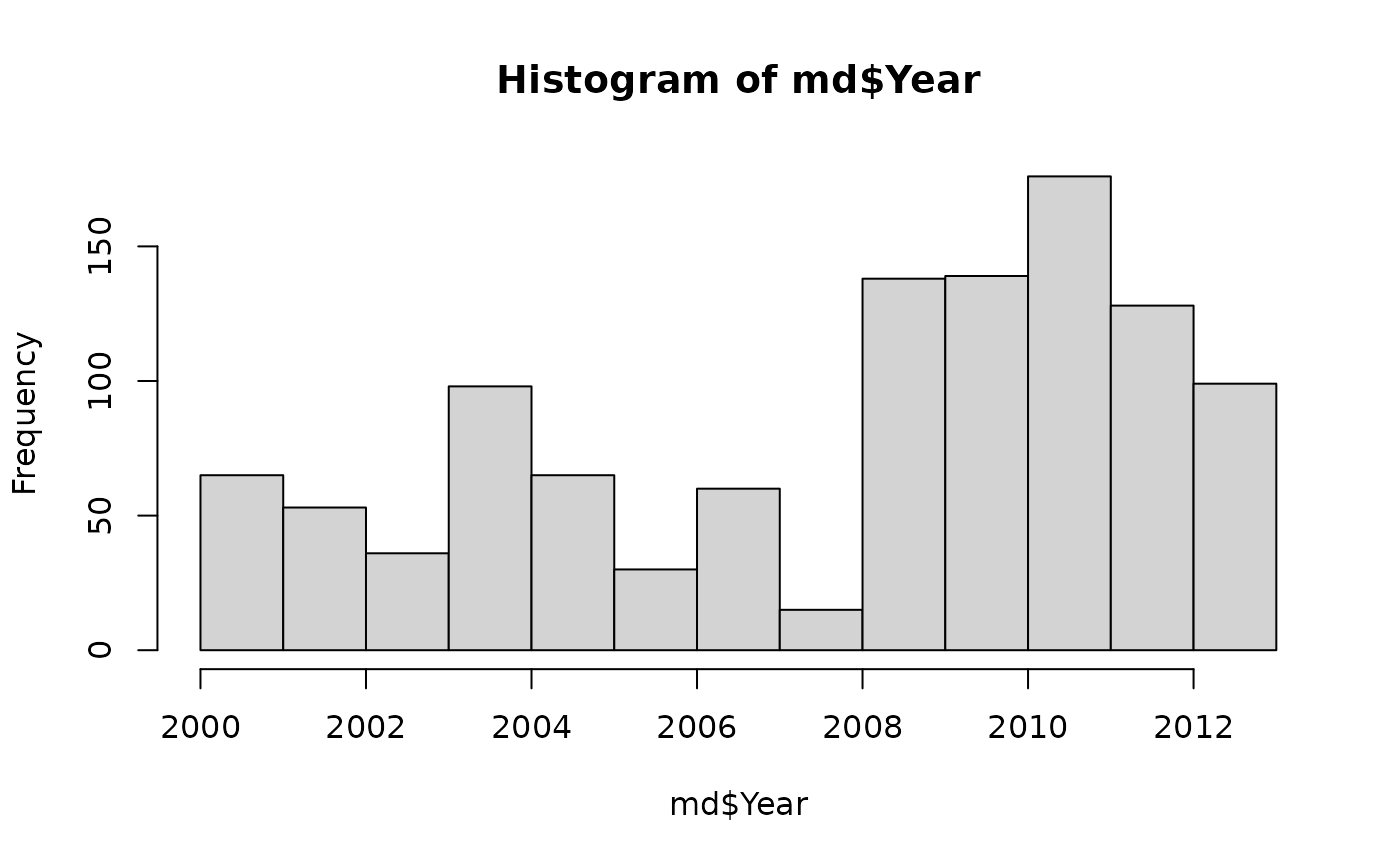
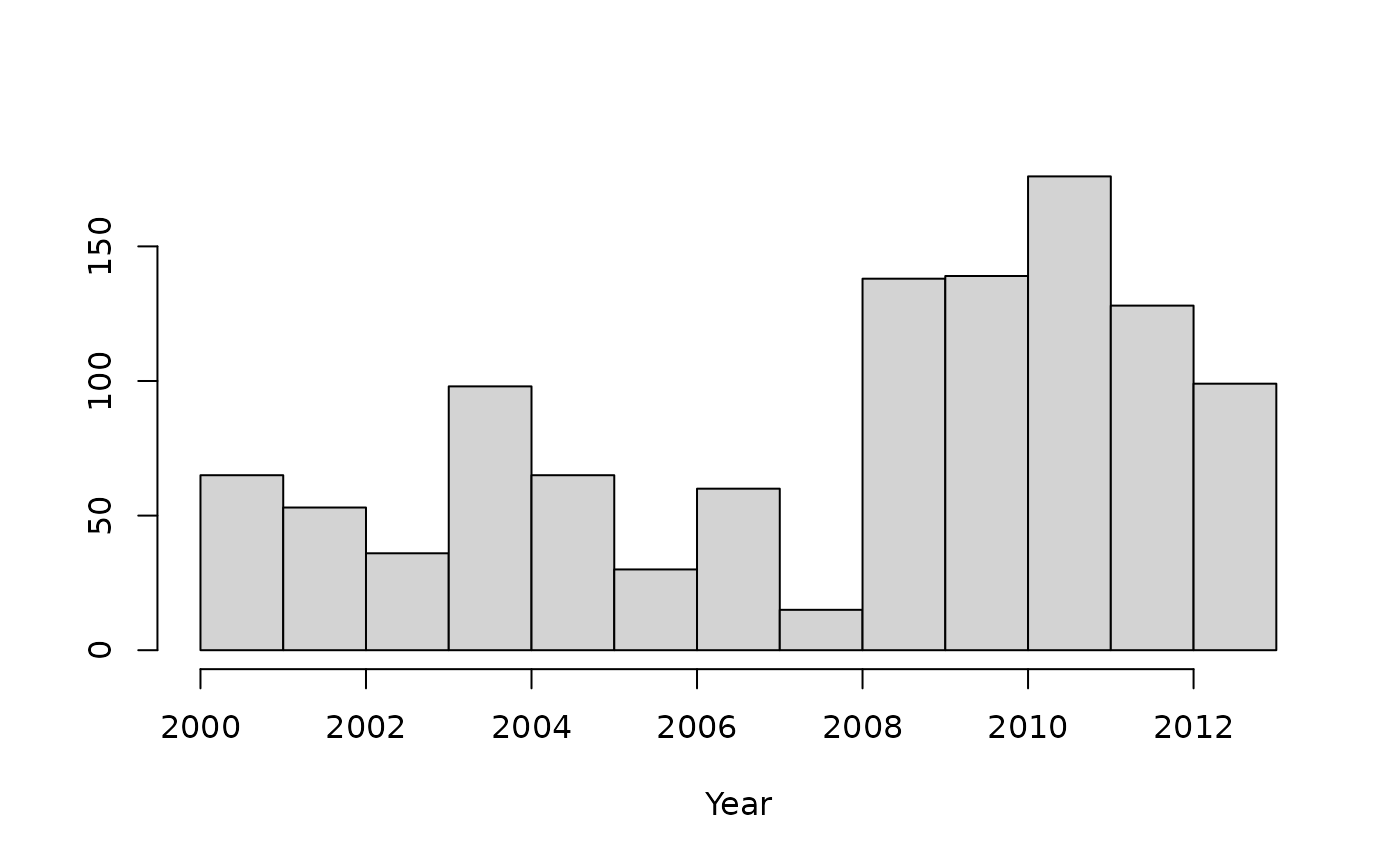
Deploying to gh-pages from @ emvolz/cod@aab1afc2be743141ed1e93c8b3ddbfab0e6b8680 🚀

Changed region(s): [[0.3379, 0.0624, 0.7064, 0.1249], [0.0, 0.3746, 0.0307, 0.5618], [0.4914, 0.9052, 0.5836, 0.9676]]

diff --git a/articles/ngono.html b/articles/ngono.html
@@ -5,12 +5,12 @@
 <meta charset="utf-8">
 <meta http-equiv="X-UA-Compatible" content="IE=edge">
 <meta name="viewport" content="width=device-width, initial-scale=1, shrink-to-fit=no">
-<title>N. gonorrhea: Computing coalescent odds, identifying growing lineages, cluster identification &amp; sample reweighting • cod</title>
+<title>Neisseria gonorrheae: Computing coalescent odds, identifying growing lineages, cluster identification &amp; sample reweighting • cod</title>
 <script src="../deps/jquery-3.6.0/jquery-3.6.0.min.js"></script><meta name="viewport" content="width=device-width, initial-scale=1, shrink-to-fit=no">
 <link href="../deps/bootstrap-5.3.1/bootstrap.min.css" rel="stylesheet">
 <script src="../deps/bootstrap-5.3.1/bootstrap.bundle.min.js"></script><link href="../deps/font-awesome-6.5.2/css/all.min.css" rel="stylesheet">
 <link href="../deps/font-awesome-6.5.2/css/v4-shims.min.css" rel="stylesheet">
-<script src="../deps/headroom-0.11.0/headroom.min.js"></script><script src="../deps/headroom-0.11.0/jQuery.headroom.min.js"></script><script src="../deps/bootstrap-toc-1.0.1/bootstrap-toc.min.js"></script><script src="../deps/clipboard.js-2.0.11/clipboard.min.js"></script><script src="../deps/search-1.0.0/autocomplete.jquery.min.js"></script><script src="../deps/search-1.0.0/fuse.min.js"></script><script src="../deps/search-1.0.0/mark.min.js"></script><!-- pkgdown --><script src="../pkgdown.js"></script><meta property="og:title" content="N. gonorrhea: Computing coalescent odds, identifying growing lineages, cluster identification &amp; sample reweighting">
+<script src="../deps/headroom-0.11.0/headroom.min.js"></script><script src="../deps/headroom-0.11.0/jQuery.headroom.min.js"></script><script src="../deps/bootstrap-toc-1.0.1/bootstrap-toc.min.js"></script><script src="../deps/clipboard.js-2.0.11/clipboard.min.js"></script><script src="../deps/search-1.0.0/autocomplete.jquery.min.js"></script><script src="../deps/search-1.0.0/fuse.min.js"></script><script src="../deps/search-1.0.0/mark.min.js"></script><!-- pkgdown --><script src="../pkgdown.js"></script><meta property="og:title" content="Neisseria gonorrheae: Computing coalescent odds, identifying growing lineages, cluster identification &amp; sample reweighting">
 </head>
 <body>
     <a href="#main" class="visually-hidden-focusable">Skip to contents</a>
@@ -33,7 +33,7 @@
 <li class="active nav-item dropdown">
   <button class="nav-link dropdown-toggle" type="button" id="dropdown-articles" data-bs-toggle="dropdown" aria-expanded="false" aria-haspopup="true">Articles</button>
   <ul class="dropdown-menu" aria-labelledby="dropdown-articles">
-<li><a class="dropdown-item" href="../articles/ngono.html">N. gonorrhea: Computing coalescent odds, identifying growing lineages, cluster identification &amp; sample reweighting</a></li>
+<li><a class="dropdown-item" href="../articles/ngono.html">Neisseria gonorrheae: Computing coalescent odds, identifying growing lineages, cluster identification &amp; sample reweighting</a></li>
   </ul>
 </li>
       </ul>
@@ -54,10 +54,10 @@
 <div class="row">
   <main id="main" class="col-md-9"><div class="page-header">
 
-      <h1>N. gonorrhea: Computing coalescent odds, identifying growing lineages, cluster identification &amp; sample reweighting</h1>
+      <h1>Neisseria gonorrheae: Computing coalescent odds, identifying growing lineages, cluster identification &amp; sample reweighting</h1>
                         <h4 data-toc-skip class="author">Erik Volz</h4>
             
-            <h4 data-toc-skip class="date">2025-09-25</h4>
+            <h4 data-toc-skip class="date">2025-10-12</h4>
       
 
       <div class="d-none name"><code>ngono.Rmd</code></div>
@@ -66,22 +66,23 @@
     
     
 <p>This vignette demonstrates the main functions of <code>cod</code>
-using data from 1,102 Neiseria gonorrhoeae genomes first described in <a class="footnote-ref" tabindex="0" data-bs-toggle="popover" data-bs-content="&lt;p&gt;Grad Y.H. , Harris S.R., Kirkcaldy R.D., Green A.G.,
+using data from 1,102 Neisseria gonorrhoeae genomes first described in
+<a class="footnote-ref" tabindex="0" data-bs-toggle="popover" data-bs-content="&lt;p&gt;Grad Y.H. , Harris S.R., Kirkcaldy R.D., Green A.G.,
 Marks D.S., Bentley S.D., Trees D., Lipsitch M. 2016. Genomic
 epidemiology of gonococcal resistance to extended-spectrum
 cephalosporins, macrolides, and fluoroquinolones in the United States,
-2000-2013. J. Infect. Dis. 214:1579-1587.&lt;/p&gt;"><sup>1</sup></a>. The data
-used here were further analysed in <a class="footnote-ref" tabindex="0" data-bs-toggle="popover" data-bs-content='&lt;p&gt;Erik M Volz, Wiuf Carsten, Yonatan H Grad, Simon D W
+2000-2013. J. Infect. Dis. 214:1579-1587.&lt;/p&gt;"><sup>1</sup></a>. The
+data used here were further analysed in <a class="footnote-ref" tabindex="0" data-bs-toggle="popover" data-bs-content='&lt;p&gt;Erik M Volz, Wiuf Carsten, Yonatan H Grad, Simon D W
 Frost, Ann M Dennis, Xavier Didelot, Identification of Hidden Population
 Structure in Time-Scaled Phylogenies, Systematic Biology, Volume 69,
-Issue 5, September 2020, Pages 884–896, &lt;a href="https://doi.org/10.1093/sysbio/syaa009" class="external-link uri"&gt;https://doi.org/10.1093/sysbio/syaa009&lt;/a&gt;&lt;/p&gt;'><sup>2</sup></a> and this version of the data are available
-at <a href="https://github.com/xavierdidelot/gonophylo" class="external-link">https://github.com/xavierdidelot/gonophylo</a>.</p>
+Issue 5, September 2020, Pages 884–896, &lt;a href="https://doi.org/10.1093/sysbio/syaa009" class="external-link uri"&gt;https://doi.org/10.1093/sysbio/syaa009&lt;/a&gt;&lt;/p&gt;'><sup>2</sup></a> and the data analysed
+here is available at <a href="https://github.com/emvolz/cod/tree/main/inst/extdata" class="external-link">https://github.com/emvolz/cod/tree/main/inst/extdata</a>.</p>
 <div class="sourceCode" id="cb1"><pre class="downlit sourceCode r">
 <code class="sourceCode R"><span><span class="kw"><a href="https://rdrr.io/r/base/library.html" class="external-link">library</a></span><span class="op">(</span><span class="va"><a href="https://emvolz.github.io/cod/">cod</a></span><span class="op">)</span></span>
 <span><span class="va">tr</span> <span class="op">&lt;-</span> <span class="fu">ape</span><span class="fu">::</span><span class="fu"><a href="https://rdrr.io/pkg/ape/man/read.tree.html" class="external-link">read.tree</a></span><span class="op">(</span> <span class="fu"><a href="https://rdrr.io/r/base/system.file.html" class="external-link">system.file</a></span><span class="op">(</span><span class="st">'extdata/grad2016-treedater-tr1.nwk'</span>, package<span class="op">=</span><span class="st">'cod'</span> <span class="op">)</span> <span class="op">)</span></span>
 <span><span class="va">md</span> <span class="op">&lt;-</span> <span class="fu"><a href="https://rdrr.io/r/utils/read.table.html" class="external-link">read.csv</a></span><span class="op">(</span> <span class="fu"><a href="https://rdrr.io/r/base/system.file.html" class="external-link">system.file</a></span><span class="op">(</span> <span class="st">'extdata/grad2016-a2md.csv'</span> , package<span class="op">=</span><span class="st">'cod'</span> <span class="op">)</span> <span class="op">)</span> </span></code></pre></div>
-<p>This is a time-scaled phylogeny estimated with the
-<code>treedater</code> R package.</p>
+<p>This is a time-scaled phylogeny estimated using <code>phyml</code>,
+<code>ClonalFrameML</code> and the <code>treedater</code> R package.</p>
 <div class="sourceCode" id="cb2"><pre class="downlit sourceCode r">
 <code class="sourceCode R"><span><span class="va">tr</span> </span></code></pre></div>
 <pre><code><span><span class="co">## </span></span>
@@ -105,7 +106,7 @@ of “2” to represent resistance.</p>
 <span><span class="co">## 5 15335_2#13   2   2   0  NA   0   2   2    CHI 2008</span></span>
 <span><span class="co">## 6 15335_2#14   2   2   0  NA   0   0   2    KCY 2008</span></span></code></pre>
 <div class="sourceCode" id="cb6"><pre class="downlit sourceCode r">
-<code class="sourceCode R"><span><span class="fu"><a href="https://rdrr.io/r/graphics/hist.html" class="external-link">hist</a></span><span class="op">(</span> <span class="va">md</span><span class="op">$</span><span class="va">Year</span>, title <span class="op">=</span> <span class="st">''</span>, ylabel <span class="op">=</span> <span class="st">''</span>, xlabel <span class="op">=</span> <span class="st">'Year'</span> <span class="op">)</span></span></code></pre></div>
+<code class="sourceCode R"><span><span class="fu"><a href="https://rdrr.io/r/graphics/hist.html" class="external-link">hist</a></span><span class="op">(</span> <span class="va">md</span><span class="op">$</span><span class="va">Year</span>, main <span class="op">=</span> <span class="st">''</span>, ylab <span class="op">=</span> <span class="st">''</span>, xlab <span class="op">=</span> <span class="st">'Year'</span> <span class="op">)</span></span></code></pre></div>
 <p><img src="ngono_files/figure-html/unnamed-chunk-3-1.png" width="700"></p>
 <div class="section level2">
 <h2 id="estimating-coalescent-odds">Estimating coalescent odds<a class="anchor" aria-label="anchor" href="#estimating-coalescent-odds"></a>
@@ -142,7 +143,7 @@ squares is <code>codls</code>:</p>
 <p>The only required argument is a time-scaled phylogenetic tree. This
 method models the correlation of coalescent odds between phylogenetic
 lineages using a Gaussian-Markov Random Field which includes a precision
-parameter <code>logtau</code>. If indepently estimated, this can be
+parameter <code>logtau</code>. If independently estimated, this can be
 provided to <code>codls</code> to speed up estimation, but if omitted,
 <code>logtau</code> will be automatically estimated using the
 <code>tauprofile</code> function. You can also speed up
@@ -440,7 +441,7 @@ select the optimal threshold:</p>
 <span><span class="co">## 4 2191                    1 -0.3838401 FALSE</span></span>
 <span><span class="co">## 5 1065 17176_1#39         2 -0.4356554  TRUE</span></span>
 <span><span class="co">## 6 1066  8289_2#72         2 -0.4411569  TRUE</span></span></code></pre>
-<p>Plotting these shows that one cluster very closely matches a clade
+<p>Plotting this shows that one cluster very closely matches a clade
 with high levels of AZI resistance and high coalescent odds, so an
 alternative way to analyse these data would be to identify clusters with
 high coalescent odds and then characterise resistance patters within

diff --git a/reference/plot.gpgmrf.html b/reference/plot.gpgmrf.html
@@ -18,7 +18,7 @@
       <ul class="navbar-nav me-auto"><li class="active nav-item"><a class="nav-link" href="../reference/index.html">Reference</a></li>
 <li class="nav-item dropdown">
   <button class="nav-link dropdown-toggle" type="button" id="dropdown-articles" data-bs-toggle="dropdown" aria-expanded="false" aria-haspopup="true">Articles</button>
-  <ul class="dropdown-menu" aria-labelledby="dropdown-articles"><li><a class="dropdown-item" href="../articles/ngono.html">N. gonorrhea: Computing coalescent odds, identifying growing lineages, cluster identification &amp; sample reweighting</a></li>
+  <ul class="dropdown-menu" aria-labelledby="dropdown-articles"><li><a class="dropdown-item" href="../articles/ngono.html">Neisseria gonorrheae: Computing coalescent odds, identifying growing lineages, cluster identification &amp; sample reweighting</a></li>
   </ul></li>
       </ul><ul class="navbar-nav"><li class="nav-item"><form class="form-inline" role="search">
  <input class="form-control" type="search" name="search-input" id="search-input" autocomplete="off" aria-label="Search site" placeholder="Search for" data-search-index="../search.json"></form></li>
@@ -111,7 +111,7 @@
 <span class="r-out co"><span class="r-pr">#&gt;</span>         mid = "lightblue", high = "red", midpoint = 0, limits = range(fdf$theta), </span>
 <span class="r-out co"><span class="r-pr">#&gt;</span>         name = "ψ") + ggtree::theme_tree2() + ggtree::geom_tiplab()</span>
 <span class="r-out co"><span class="r-pr">#&gt;</span> }</span>
-<span class="r-out co"><span class="r-pr">#&gt;</span> &lt;environment: 0x55fdcc954748&gt;</span>
+<span class="r-out co"><span class="r-pr">#&gt;</span> &lt;environment: 0x55fc9ad9a730&gt;</span>
 </code></pre></div>
     </div>
   </main><aside class="col-md-3"><nav id="toc" aria-label="Table of contents"><h2>On this page</h2>

diff --git a/reference/fitgpgmrf.html b/reference/fitgpgmrf.html
@@ -18,7 +18,7 @@
       <ul class="navbar-nav me-auto"><li class="active nav-item"><a class="nav-link" href="../reference/index.html">Reference</a></li>
 <li class="nav-item dropdown">
   <button class="nav-link dropdown-toggle" type="button" id="dropdown-articles" data-bs-toggle="dropdown" aria-expanded="false" aria-haspopup="true">Articles</button>
-  <ul class="dropdown-menu" aria-labelledby="dropdown-articles"><li><a class="dropdown-item" href="../articles/ngono.html">N. gonorrhea: Computing coalescent odds, identifying growing lineages, cluster identification &amp; sample reweighting</a></li>
+  <ul class="dropdown-menu" aria-labelledby="dropdown-articles"><li><a class="dropdown-item" href="../articles/ngono.html">Neisseria gonorrheae: Computing coalescent odds, identifying growing lineages, cluster identification &amp; sample reweighting</a></li>
   </ul></li>
       </ul><ul class="navbar-nav"><li class="nav-item"><form class="form-inline" role="search">
  <input class="form-control" type="search" name="search-input" id="search-input" autocomplete="off" aria-label="Search site" placeholder="Search for" data-search-index="../search.json"></form></li>
@@ -210,7 +210,7 @@
 <span class="r-out co"><span class="r-pr">#&gt;</span>             1):nrow(X), istartnodeterms = nr + 1, coindices = coindices, </span>
 <span class="r-out co"><span class="r-pr">#&gt;</span>         tauprofile = tpdf, runtime = st3 - st1), class = "gpgmrf")</span>
 <span class="r-out co"><span class="r-pr">#&gt;</span> }</span>
-<span class="r-out co"><span class="r-pr">#&gt;</span> &lt;environment: 0x55fdd0a95190&gt;</span>
+<span class="r-out co"><span class="r-pr">#&gt;</span> &lt;environment: 0x55fc9eb6af70&gt;</span>
 </code></pre></div>
     </div>
   </main><aside class="col-md-3"><nav id="toc" aria-label="Table of contents"><h2>On this page</h2>

diff --git a/reference/coef.gpgmrf.html b/reference/coef.gpgmrf.html
@@ -18,7 +18,7 @@
       <ul class="navbar-nav me-auto"><li class="active nav-item"><a class="nav-link" href="../reference/index.html">Reference</a></li>
 <li class="nav-item dropdown">
   <button class="nav-link dropdown-toggle" type="button" id="dropdown-articles" data-bs-toggle="dropdown" aria-expanded="false" aria-haspopup="true">Articles</button>
-  <ul class="dropdown-menu" aria-labelledby="dropdown-articles"><li><a class="dropdown-item" href="../articles/ngono.html">N. gonorrhea: Computing coalescent odds, identifying growing lineages, cluster identification &amp; sample reweighting</a></li>
+  <ul class="dropdown-menu" aria-labelledby="dropdown-articles"><li><a class="dropdown-item" href="../articles/ngono.html">Neisseria gonorrheae: Computing coalescent odds, identifying growing lineages, cluster identification &amp; sample reweighting</a></li>
   </ul></li>
       </ul><ul class="navbar-nav"><li class="nav-item"><form class="form-inline" role="search">
  <input class="form-control" type="search" name="search-input" id="search-input" autocomplete="off" aria-label="Search site" placeholder="Search for" data-search-index="../search.json"></form></li>
@@ -97,7 +97,7 @@
 <span class="r-out co"><span class="r-pr">#&gt;</span>     stopifnot(inherits(f, "gpgmrf"))</span>
 <span class="r-out co"><span class="r-pr">#&gt;</span>     f$coef</span>
 <span class="r-out co"><span class="r-pr">#&gt;</span> }</span>
-<span class="r-out co"><span class="r-pr">#&gt;</span> &lt;environment: 0x55fdd1459f90&gt;</span>
+<span class="r-out co"><span class="r-pr">#&gt;</span> &lt;environment: 0x55fc9f884238&gt;</span>
 </code></pre></div>
     </div>
   </main><aside class="col-md-3"><nav id="toc" aria-label="Table of contents"><h2>On this page</h2>

diff --git a/reference/print.gpgmrf.html b/reference/print.gpgmrf.html
@@ -18,7 +18,7 @@
       <ul class="navbar-nav me-auto"><li class="active nav-item"><a class="nav-link" href="../reference/index.html">Reference</a></li>
 <li class="nav-item dropdown">
   <button class="nav-link dropdown-toggle" type="button" id="dropdown-articles" data-bs-toggle="dropdown" aria-expanded="false" aria-haspopup="true">Articles</button>
-  <ul class="dropdown-menu" aria-labelledby="dropdown-articles"><li><a class="dropdown-item" href="../articles/ngono.html">N. gonorrhea: Computing coalescent odds, identifying growing lineages, cluster identification &amp; sample reweighting</a></li>
+  <ul class="dropdown-menu" aria-labelledby="dropdown-articles"><li><a class="dropdown-item" href="../articles/ngono.html">Neisseria gonorrheae: Computing coalescent odds, identifying growing lineages, cluster identification &amp; sample reweighting</a></li>
   </ul></li>
       </ul><ul class="navbar-nav"><li class="nav-item"><form class="form-inline" role="search">
  <input class="form-control" type="search" name="search-input" id="search-input" autocomplete="off" aria-label="Search site" placeholder="Search for" data-search-index="../search.json"></form></li>
@@ -109,7 +109,7 @@
 <span class="r-out co"><span class="r-pr">#&gt;</span>     cat("\n")</span>
 <span class="r-out co"><span class="r-pr">#&gt;</span>     invisible(f)</span>
 <span class="r-out co"><span class="r-pr">#&gt;</span> }</span>
-<span class="r-out co"><span class="r-pr">#&gt;</span> &lt;environment: 0x55fdcc6b5ae0&gt;</span>
+<span class="r-out co"><span class="r-pr">#&gt;</span> &lt;environment: 0x55fc9ab99b58&gt;</span>
 </code></pre></div>
     </div>
   </main><aside class="col-md-3"><nav id="toc" aria-label="Table of contents"><h2>On this page</h2>

diff --git a/articles/index.html b/articles/index.html
@@ -18,7 +18,7 @@
       <ul class="navbar-nav me-auto"><li class="nav-item"><a class="nav-link" href="../reference/index.html">Reference</a></li>
 <li class="nav-item dropdown">
   <button class="nav-link dropdown-toggle" type="button" id="dropdown-articles" data-bs-toggle="dropdown" aria-expanded="false" aria-haspopup="true">Articles</button>
-  <ul class="dropdown-menu" aria-labelledby="dropdown-articles"><li><a class="dropdown-item" href="../articles/ngono.html">N. gonorrhea: Computing coalescent odds, identifying growing lineages, cluster identification &amp; sample reweighting</a></li>
+  <ul class="dropdown-menu" aria-labelledby="dropdown-articles"><li><a class="dropdown-item" href="../articles/ngono.html">Neisseria gonorrheae: Computing coalescent odds, identifying growing lineages, cluster identification &amp; sample reweighting</a></li>
   </ul></li>
       </ul><ul class="navbar-nav"><li class="nav-item"><form class="form-inline" role="search">
  <input class="form-control" type="search" name="search-input" id="search-input" autocomplete="off" aria-label="Search site" placeholder="Search for" data-search-index="../search.json"></form></li>
@@ -37,7 +37,7 @@
       <h3>All vignettes</h3>
       <div class="section-desc"></div>
 
-      <dl><dt><a href="ngono.html">N. gonorrhea: Computing coalescent odds, identifying growing lineages, cluster identification &amp; sample reweighting</a></dt>
+      <dl><dt><a href="ngono.html">Neisseria gonorrheae: Computing coalescent odds, identifying growing lineages, cluster identification &amp; sample reweighting</a></dt>
         <dd>
       </dd></dl></div>
   </main></div>

diff --git a/reference/autoreweight.html b/reference/autoreweight.html
@@ -26,7 +26,7 @@ not due to evolutionary effects, but note that this method may mask evolutionary
       <ul class="navbar-nav me-auto"><li class="active nav-item"><a class="nav-link" href="../reference/index.html">Reference</a></li>
 <li class="nav-item dropdown">
   <button class="nav-link dropdown-toggle" type="button" id="dropdown-articles" data-bs-toggle="dropdown" aria-expanded="false" aria-haspopup="true">Articles</button>
-  <ul class="dropdown-menu" aria-labelledby="dropdown-articles"><li><a class="dropdown-item" href="../articles/ngono.html">N. gonorrhea: Computing coalescent odds, identifying growing lineages, cluster identification &amp; sample reweighting</a></li>
+  <ul class="dropdown-menu" aria-labelledby="dropdown-articles"><li><a class="dropdown-item" href="../articles/ngono.html">Neisseria gonorrheae: Computing coalescent odds, identifying growing lineages, cluster identification &amp; sample reweighting</a></li>
   </ul></li>
       </ul><ul class="navbar-nav"><li class="nav-item"><form class="form-inline" role="search">
  <input class="form-control" type="search" name="search-input" id="search-input" autocomplete="off" aria-label="Search site" placeholder="Search for" data-search-index="../search.json"></form></li>

diff --git a/reference/codbinomial.html b/reference/codbinomial.html
@@ -22,7 +22,7 @@ This method is slower than `codls` and is not recommended for trees with more th
       <ul class="navbar-nav me-auto"><li class="active nav-item"><a class="nav-link" href="../reference/index.html">Reference</a></li>
 <li class="nav-item dropdown">
   <button class="nav-link dropdown-toggle" type="button" id="dropdown-articles" data-bs-toggle="dropdown" aria-expanded="false" aria-haspopup="true">Articles</button>
-  <ul class="dropdown-menu" aria-labelledby="dropdown-articles"><li><a class="dropdown-item" href="../articles/ngono.html">N. gonorrhea: Computing coalescent odds, identifying growing lineages, cluster identification &amp; sample reweighting</a></li>
+  <ul class="dropdown-menu" aria-labelledby="dropdown-articles"><li><a class="dropdown-item" href="../articles/ngono.html">Neisseria gonorrheae: Computing coalescent odds, identifying growing lineages, cluster identification &amp; sample reweighting</a></li>
   </ul></li>
       </ul><ul class="navbar-nav"><li class="nav-item"><form class="form-inline" role="search">
  <input class="form-control" type="search" name="search-input" id="search-input" autocomplete="off" aria-label="Search site" placeholder="Search for" data-search-index="../search.json"></form></li>

diff --git a/reference/codml.html b/reference/codml.html
@@ -22,7 +22,7 @@ This method is slower than `codls` and is not recommended for trees with more th
       <ul class="navbar-nav me-auto"><li class="active nav-item"><a class="nav-link" href="../reference/index.html">Reference</a></li>
 <li class="nav-item dropdown">
   <button class="nav-link dropdown-toggle" type="button" id="dropdown-articles" data-bs-toggle="dropdown" aria-expanded="false" aria-haspopup="true">Articles</button>
-  <ul class="dropdown-menu" aria-labelledby="dropdown-articles"><li><a class="dropdown-item" href="../articles/ngono.html">N. gonorrhea: Computing coalescent odds, identifying growing lineages, cluster identification &amp; sample reweighting</a></li>
+  <ul class="dropdown-menu" aria-labelledby="dropdown-articles"><li><a class="dropdown-item" href="../articles/ngono.html">Neisseria gonorrheae: Computing coalescent odds, identifying growing lineages, cluster identification &amp; sample reweighting</a></li>
   </ul></li>
       </ul><ul class="navbar-nav"><li class="nav-item"><form class="form-inline" role="search">
  <input class="form-control" type="search" name="search-input" id="search-input" autocomplete="off" aria-label="Search site" placeholder="Search for" data-search-index="../search.json"></form></li>

diff --git a/reference/optsmooth.html b/reference/optsmooth.html
@@ -22,7 +22,7 @@ The association of the branch statistic and future coalescent events (prediction
       <ul class="navbar-nav me-auto"><li class="active nav-item"><a class="nav-link" href="../reference/index.html">Reference</a></li>
 <li class="nav-item dropdown">
   <button class="nav-link dropdown-toggle" type="button" id="dropdown-articles" data-bs-toggle="dropdown" aria-expanded="false" aria-haspopup="true">Articles</button>
-  <ul class="dropdown-menu" aria-labelledby="dropdown-articles"><li><a class="dropdown-item" href="../articles/ngono.html">N. gonorrhea: Computing coalescent odds, identifying growing lineages, cluster identification &amp; sample reweighting</a></li>
+  <ul class="dropdown-menu" aria-labelledby="dropdown-articles"><li><a class="dropdown-item" href="../articles/ngono.html">Neisseria gonorrheae: Computing coalescent odds, identifying growing lineages, cluster identification &amp; sample reweighting</a></li>
   </ul></li>
       </ul><ul class="navbar-nav"><li class="nav-item"><form class="form-inline" role="search">
  <input class="form-control" type="search" name="search-input" id="search-input" autocomplete="off" aria-label="Search site" placeholder="Search for" data-search-index="../search.json"></form></li>

diff --git a/reference/rmsclo.html b/reference/rmsclo.html
@@ -22,7 +22,7 @@ where the sum is over all branches i in the tree and weighted by branch length \
       <ul class="navbar-nav me-auto"><li class="active nav-item"><a class="nav-link" href="../reference/index.html">Reference</a></li>
 <li class="nav-item dropdown">
   <button class="nav-link dropdown-toggle" type="button" id="dropdown-articles" data-bs-toggle="dropdown" aria-expanded="false" aria-haspopup="true">Articles</button>
-  <ul class="dropdown-menu" aria-labelledby="dropdown-articles"><li><a class="dropdown-item" href="../articles/ngono.html">N. gonorrhea: Computing coalescent odds, identifying growing lineages, cluster identification &amp; sample reweighting</a></li>
+  <ul class="dropdown-menu" aria-labelledby="dropdown-articles"><li><a class="dropdown-item" href="../articles/ngono.html">Neisseria gonorrheae: Computing coalescent odds, identifying growing lineages, cluster identification &amp; sample reweighting</a></li>
   </ul></li>
       </ul><ul class="navbar-nav"><li class="nav-item"><form class="form-inline" role="search">
  <input class="form-control" type="search" name="search-input" id="search-input" autocomplete="off" aria-label="Search site" placeholder="Search for" data-search-index="../search.json"></form></li>

diff --git a/reference/chindex.html b/reference/chindex.html
@@ -18,7 +18,7 @@
       <ul class="navbar-nav me-auto"><li class="active nav-item"><a class="nav-link" href="../reference/index.html">Reference</a></li>
 <li class="nav-item dropdown">
   <button class="nav-link dropdown-toggle" type="button" id="dropdown-articles" data-bs-toggle="dropdown" aria-expanded="false" aria-haspopup="true">Articles</button>
-  <ul class="dropdown-menu" aria-labelledby="dropdown-articles"><li><a class="dropdown-item" href="../articles/ngono.html">N. gonorrhea: Computing coalescent odds, identifying growing lineages, cluster identification &amp; sample reweighting</a></li>
+  <ul class="dropdown-menu" aria-labelledby="dropdown-articles"><li><a class="dropdown-item" href="../articles/ngono.html">Neisseria gonorrheae: Computing coalescent odds, identifying growing lineages, cluster identification &amp; sample reweighting</a></li>
   </ul></li>
       </ul><ul class="navbar-nav"><li class="nav-item"><form class="form-inline" role="search">
  <input class="form-control" type="search" name="search-input" id="search-input" autocomplete="off" aria-label="Search site" placeholder="Search for" data-search-index="../search.json"></form></li>
